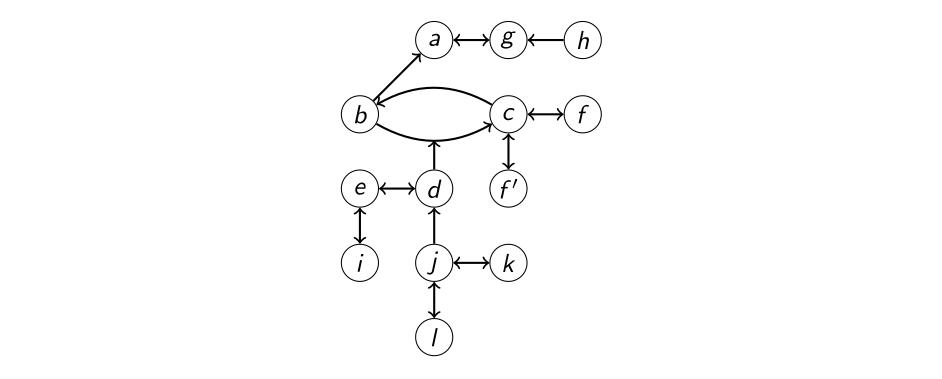
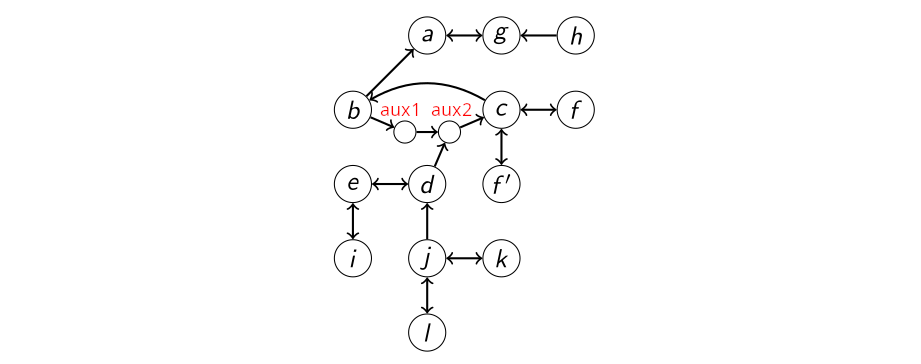
Update simonshaven figure; Add experimental results

Changed region(s): [[0.3648, 0.2115, 0.6384, 0.967], [0.4256, 0.0302, 0.6688, 0.1813]]

diff --git a/README.md b/README.md
@@ -158,7 +158,7 @@ we know that $\hat E$ is spurious..
 Recall the ASP encodings defined above:
 * $\pi_F = \\{ \textbf{arg} (a). \mid a \in A \\} \cup \\{ \textbf{att} (a,b). \mid (a,b) \in R \\}$.
 * $\pi_m = \\{ \textbf{abs\\_map} (a, \hat a). \mid a \in A, m(a) = \hat a \\}$
-* $\pi_{m(F)}$ (found in `to-clustered-af.lp`) to deduce $\textbf{abs\\_arg}/1$, $\textbf{singleton}/1$ and $\textbf{abs\\_att}/2$.
+* $\pi_{m(F)}$ to deduce $\textbf{abs\\_arg}/1$, $\textbf{singleton}/1$ and $\textbf{abs\\_att}/2$.
 * $\pi_{\sigma}$ to deduce $\textbf{in}/1$
 * $\pi_{\hat \sigma}$ to deduce $\textbf{abs\\_in}/1$
 
@@ -204,12 +204,11 @@ The above procedure can be extended to achieve this by looping though the cluste
 
 This was implemented as a python program using `clingo` as answer set solver.
 The code can be found in `find_spurious.py`.
-Note that the procedure requres two nested calls to the `clingo` solver. 
+Note that the procedure requires two nested calls to the `clingo` solver. 
 The outer call is for computing the clustered extensions, 
 the inner call to check whether that extension is spurious or not.
 
-Note that besides $\pi_{\hat E}$, the inner ASP encoding is invariant  
-during the loop iteration.
+Note that besides $\pi_{\hat E}$, the inner ASP encoding is invariant during the loop iteration.
 Thus, we utilize clingo's Solving under Assumptions feature:
 The inner clingo program is grounded only once, before entering the loop.
 Then, during the loop, $\hat E$ is passed to the solver in the form of assumptions.
@@ -229,6 +228,13 @@ with the exception of some arguments for wich we would like to prove credulous /
 Those are mapped to singleton clusters (i.e. to themselves).
 
 TODO: Simonshaven example
+
+
+For example, in the simonshaven example, we may be interested in the acceptance of the argument $a$ only,
+so our coarsest mapping with $a$ singleton would look like this:
+$m(a) = a$, $m(b)=m(c)=m(d)=m(e)=m(f)=m(f')=m(g)=m(h)=m(i)=m(j)=m(k)=m(l)=m(aux1) = m(aux2) = \hat x$
+Or, as a partition:
+$\\{ \\{a\\}, \\{b,c,d,e,f,f',g,h,i,j,k,l,aux1,aux2\\} \\}$
 
 Once the coarse mapping is established, we try to find spurious clustered extensions similar to above. 
 If none exist, the abstraction is faithful and we are done.
@@ -286,7 +292,7 @@ In the following we refer to it as $\pi_{m(X) \sim \hat X}$.
 Additionally recall the ASP encodings defined above:
 * $\pi_F = \\{ \textbf{arg} (a). \mid a \in A \\} \cup \\{ \textbf{att} (a,b). \mid (a,b) \in R \\}$.
 * $\pi_m = \\{ \textbf{abs\\_map} (a, \hat a). \mid a \in A, m(a) = \hat a \\}$
-* $\pi_{m(F)}$ (found in `to-clustered-af.lp`) to deduce $\textbf{abs\\_arg}/1$, $\textbf{singleton}/1$ and $\textbf{abs\\_att}/2$.
+* $\pi_{m(F)}$ to deduce $\textbf{abs\\_arg}/1$, $\textbf{singleton}/1$ and $\textbf{abs\\_att}/2$.
 * $\pi_{\sigma}$ to deduce $\textbf{in}/1$
 * $\pi_{\hat \sigma}$ to deduce $\textbf{abs\\_in}/1$
 * $\pi_{\hat E} = \\{ \textbf{abs\\_in}(\hat a) \mid \hat a \in \hat E \\} \cup \\{ \textbf{-abs\\_in}(\hat a) \mid \hat a \in \hat A \setminus \hat E  \\}$
@@ -323,6 +329,25 @@ Observation:
 ## Exhaustive search for smallest abstraction
 
 ## Benchmarks
+
+We test the following examples
+* Fig1c: Figure 1c [^1] with admissible semantics
+* Fig3: Figure 3 [^1] with everything mapped to one and the same cluster, stable semantics
+* Simonshaven: The simonshaven example from above with $a$ singleton, everything else mapped to one and the same cluster. Admissible and stable semantics.
+
+We test the following procedures
+* Spurious-guided: 
+* Exhaustive
+
+| Example                     | Method          | Time     | Size | Partition                                                   |
+| Fig1c, $\sigma = adm$       | Spurious-guided | $<1s$    | 5    | `{a}, {b}, {c}, {d}, {e}`                                   |
+| Fig1c, $\sigma = adm$       | Exhaustive      | $<1s$    | 3    | `{a,b,c}, {d}, {e}` ( = Figure 1a)                          |
+| Fig3, $\sigma = stb$        | Spurious-guided | NA       | NA   | NA                                                          |
+| Fig3, $\sigma = stb$        | Exhaustive      | $27s$    | 5    | `{a,b,g,h}, {c}, {d}, {e}, {f}` ( = Figure 3b)              |
+| Simonshaven, $\sigma = adm$ | Spurious-guided | $1s$     | 9    | `{a}, {aux1}, {aux2}, {b}, {c}, {d}, {e,f,f',g,h,i,k}, {j}` |
+| Simonshaven, $\sigma = adm$ | Exhaustive      | $6s$     | 3    | `{a}, {aux1,c,d,e,f,f',g,j,k}, {aux2,b,h,i,l}`              |
+| Simonshaven, $\sigma = stb$ | Spurious-guided | $<1s$    | 15   | `{a}, {aux1}, {aux2}, {b}, {c}, {d}, {e}, {f}, {f'}, {g},`  |
+| Simonshaven, $\sigma = stb$ | Exhaustive      | $14m16s$ | 4    | `{a}, {aux1,aux2,b,c,d,e,f,f',i,j,k,l}, {g}, {h}`           |
 
 ## Future work
 
